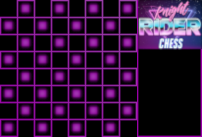
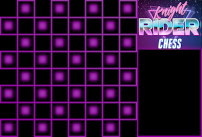
Implemented abstract layer of coordinates system and getting mouse position in this system

Changed region(s): [[0.6832, 0.0, 1.0, 0.3796]]

diff --git a/src/Manager.cpp b/src/Manager.cpp
@@ -1,18 +1,20 @@
 #include "../include/Manager.hh"
 
-Manager::Manager(float dim_x, float dim_y, std::string title){
+Manager::Manager(int dim_x, int dim_y, std::string title){
 	window.create(sf::VideoMode(dim_x, dim_y), title);
 	drawer = Drawer("Lazer84.ttf");
 	size.x = dim_x;
 	size.y = dim_y;
 
-	for(int i=0; i<NPAWNS/2; i++)
+	/*for(int i=0; i<NPAWNS/2; i++)
 		pawn[i] = Pawn(Team::blue, sf::Vector2f(i,6));
 	for(int i=0; i<NPAWNS/2; i++)
-		pawn[(NPAWNS/2) + i] = Pawn(Team::yellow, sf::Vector2f(i, 1), true);
+		pawn[(NPAWNS/2) + i] = Pawn(Team::yellow, sf::Vector2f(i, 1), true);*/
 }
 
 int Manager::run(){
+	sf::Vector2i mouse_tile;
+
 	std::cout<<"Starting the game..."<<std::endl;
 	
 	//game loop
@@ -22,13 +24,15 @@ int Manager::run(){
 			handle_events(event);
 		}
 
+		mouse_tile = get_mouse_tile(&window);
+
 		window.clear();
 		/* visible part */
 		drawer.draw_board(&window);
-		for(int i=0; i<NPAWNS; i++){
+		/*for(int i=0; i<NPAWNS; i++){
 			p_piece = &pawn[i];
 			drawer.draw_piece(&window, p_piece);
-		}
+		}*/
 		/* visible part */
 		window.display();
 	}
@@ -47,4 +51,27 @@ int Manager::handle_events(sf::Event event){
 		window.close();
 
 	return 0;
+}
+
+sf::Vector2i Manager::get_mouse_tile(sf::RenderWindow *win){
+	sf::Vector2i tile;
+	sf::Vector2i l_pos = sf::Mouse::getPosition(*win);
+	bool found = false;
+
+	for(int i=0; i<8; i++){
+		for(int j=0; j<8; j++){
+			if(l_pos.x>1+17*2*j && l_pos.x<(1+j)*17*2 &&
+				 l_pos.y>1+17*2*i && l_pos.y<(1+i)*17*2){
+				tile = sf::Vector2i(j,i);
+				found = true;
+				break;
+			}
+			else
+				tile = sf::Vector2i(-1,-1);
+		}
+		if(found)
+			break;
+	}
+	
+	return tile;
 }

diff --git a/src/Bishop.cpp b/src/Bishop.cpp
@@ -1,1 +1,14 @@
 #include "../include/Bishop.hh"
+
+Bishop::Bishop(Team team, sf::Vector2i pos, bool enemy){
+	this->position = pos;
+	this->team = team;
+	this->enemy = enemy;
+
+	this->piece.setPosition(sf::Vector2f(1+17*2*pos.x, 1+17*2*pos.y));
+
+	if(team == Team::blue)
+		this->tex_path = this->tex_path+"bishopB.png";
+	else
+		this->tex_path = this->tex_path+"bishopY.png";
+}

diff --git a/src/Knight.cpp b/src/Knight.cpp
@@ -1,1 +1,14 @@
 #include "../include/Knight.hh"
+
+Knight::Knight(Team team, sf::Vector2i pos, bool enemy){
+	this->position = pos;
+	this->team = team;
+	this->enemy = enemy;
+
+	this->piece.setPosition(sf::Vector2f(1+17*2*pos.x, 1+17*2*pos.y));
+
+	if(team == Team::blue)
+		this->tex_path = this->tex_path+"knightB.png";
+	else
+		this->tex_path = this->tex_path+"knightY.png";
+}

diff --git a/src/Queen.cpp b/src/Queen.cpp
@@ -1,1 +1,14 @@
 #include "../include/Queen.hh"
+
+Queen::Queen(Team team, sf::Vector2i pos, bool enemy){
+	this->position = pos;
+	this->team = team;
+	this->enemy = enemy;
+
+	this->piece.setPosition(sf::Vector2f(1+17*2*pos.x, 1+17*2*pos.y));
+	
+	if(team == Team::blue)
+		this->tex_path = this->tex_path+"queenB.png";
+	else
+		this->tex_path = this->tex_path+"queenY.png";
+}

diff --git a/src/King.cpp b/src/King.cpp
@@ -1,1 +1,14 @@
 #include "../include/King.hh"
+
+King::King(Team team, sf::Vector2i pos, bool enemy){
+	this->position = pos;
+	this->team = team;
+	this->enemy = enemy;
+
+	this->piece.setPosition(sf::Vector2f(1+17*2*pos.x, 1+17*2*pos.y));
+	
+	if(team == Team::blue)
+		this->tex_path = this->tex_path+"kingB.png";
+	else
+		this->tex_path = this->tex_path+"kingY.png";
+}

diff --git a/src/Rook.cpp b/src/Rook.cpp
@@ -1,1 +1,14 @@
 #include "../include/Rook.hh"
+
+Rook::Rook(Team team, sf::Vector2i pos, bool enemy){
+	this->position = pos;
+	this->team = team;
+	this->enemy = enemy;
+
+	this->piece.setPosition(sf::Vector2f(1+17*2*pos.x, 1+17*2*pos.y));
+	
+	if(team == Team::blue)
+		this->tex_path = this->tex_path+"rookB.png";
+	else
+		this->tex_path = this->tex_path+"rookY.png";
+}

diff --git a/src/main.cpp b/src/main.cpp
@@ -4,8 +4,8 @@
 #include "../include/Manager.hh"
 
 int main(int argc, char *argv[]){
-	const float dim_x = 404.f;
-	const float dim_y = 274.f;
+	const int dim_x = 404;
+	const int dim_y = 274;
 	const std::string title = "knight rider";
 
 	Manager game(dim_x, dim_y, title);

diff --git a/src/Pawn.cpp b/src/Pawn.cpp
@@ -1,6 +1,6 @@
 #include "../include/Pawn.hh"
 
-Pawn::Pawn(Team team, sf::Vector2f pos, bool enemy){
+Pawn::Pawn(Team team, sf::Vector2i pos, bool enemy){
 	this->position = pos;
 	this->team = team;
 	this->enemy = enemy;

diff --git a/src/Piece.cpp b/src/Piece.cpp
@@ -1,6 +1,6 @@
 #include "../include/Piece.hh"
 
-sf::Vector2f Piece::get_position(){
+sf::Vector2i Piece::get_position(){
 	return position;
 }
 
